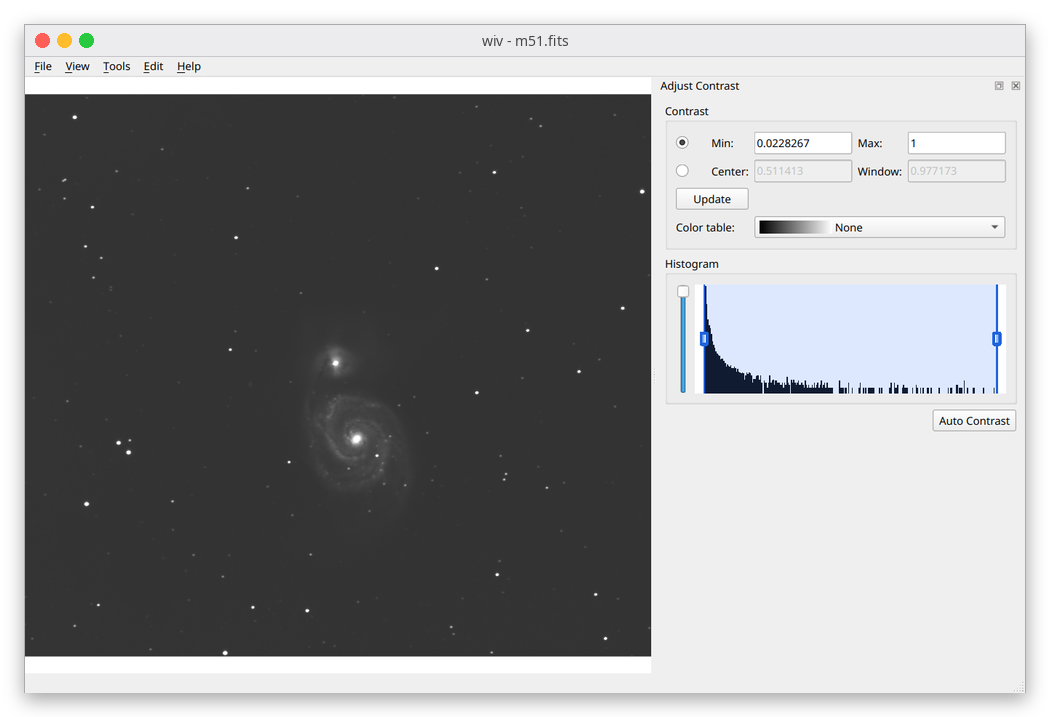
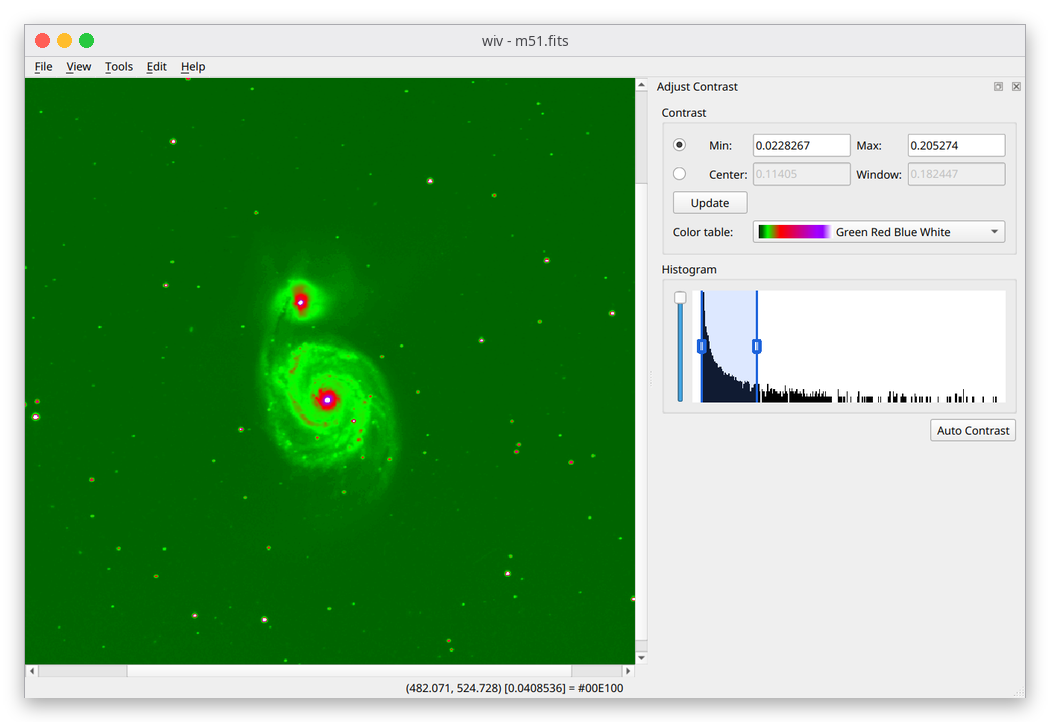
Rewrite README as a fast image viewer plus GPU vector/scientific viewer
- New README structure: hero strip, 10M-point zoom, who is it for,
  gallery, download, comparison table
- New hero images, gallery screenshots (thumbnails, EXIF, contrast with
  colour table, Voronoi with Mark Browser); drop the text-markup shot
- features.md: multi-value dashes and earcut polygons are supported
- Add tools/show-md.py to render Markdown locally

diff --git a/tools/show-md.py b/tools/show-md.py
@@ -1,0 +1,117 @@
+#!/usr/bin/env python3
+# SPDX-License-Identifier: GPL-3.0-only
+"""Render a Markdown file to HTML styled like GitHub and open it in the browser.
+
+Usage: tools/show-md.py [FILE.md] [--out OUT.html] [--no-open]
+
+Rendering is local (markdown-it-py, GFM-like: tables, strikethrough, raw HTML,
+auto-linked URLs, GitHub-style heading anchors). Relative images and links
+resolve against the Markdown file's directory.  Requires `pip install
+markdown-it-py` (or the distro package python3-markdown-it-py).
+"""
+import argparse
+import html
+import re
+import sys
+import tempfile
+import webbrowser
+from pathlib import Path
+
+try:
+    from markdown_it import MarkdownIt
+except ImportError:
+    sys.exit("show-md.py needs markdown-it-py (pip install markdown-it-py)")
+
+CSS = """
+:root{color-scheme:light dark;--fg:#1f2328;--bg:#fff;--muted:#59636e;--border:#d1d9e0;
+--code-bg:#f6f8fa;--link:#0969da;--th-bg:#f6f8fa}
+@media (prefers-color-scheme:dark){:root{--fg:#f0f6fc;--bg:#0d1117;--muted:#9198a1;
+--border:#3d444d;--code-bg:#151b23;--link:#4493f8;--th-bg:#151b23}}
+body{margin:0;background:var(--bg);color:var(--fg);
+font:16px/1.5 -apple-system,"Segoe UI",Noto Sans,Helvetica,Arial,sans-serif}
+.page{max-width:980px;margin:0 auto;padding:32px 16px}
+article{border:1px solid var(--border);border-radius:6px;padding:45px;word-wrap:break-word}
+@media (max-width:767px){article{padding:15px;border:0}}
+a{color:var(--link);text-decoration:none}a:hover{text-decoration:underline}
+h1,h2,h3,h4,h5,h6{margin:24px 0 16px;font-weight:600;line-height:1.25}
+h1{font-size:2em;padding-bottom:.3em;border-bottom:1px solid var(--border)}
+h2{font-size:1.5em;padding-bottom:.3em;border-bottom:1px solid var(--border)}
+h3{font-size:1.25em}h4{font-size:1em}
+article>:first-child{margin-top:0}
+p,ul,ol,table,pre,blockquote,details{margin:0 0 16px}
+ul,ol{padding-left:2em}li+li{margin-top:.25em}
+img{max-width:100%;box-sizing:content-box}
+code,tt{font:85% ui-monospace,SFMono-Regular,Menlo,Consolas,monospace;
+background:color-mix(in srgb,var(--muted) 20%,transparent);padding:.2em .4em;border-radius:6px}
+pre{background:var(--code-bg);padding:16px;overflow:auto;border-radius:6px;line-height:1.45}
+pre code{background:none;padding:0;font-size:85%}
+blockquote{margin-left:0;padding:0 1em;color:var(--muted);border-left:.25em solid var(--border)}
+hr{height:.25em;padding:0;margin:24px 0;background:var(--border);border:0}
+table{border-collapse:collapse;display:block;max-width:100%;overflow:auto;width:max-content}
+table table{display:table}
+th,td{padding:6px 13px;border:1px solid var(--border)}
+tr:nth-child(2n){background:var(--th-bg)}th{font-weight:600}
+table[align=center] tr,table[align=center] td{background:none}
+table[align=center] td{border:0}
+kbd{font:11px ui-monospace,monospace;padding:3px 5px;border:1px solid var(--border);
+border-radius:6px;background:var(--code-bg)}
+"""
+
+
+def slugify(text, seen):
+    # GitHub: lowercase, drop everything but word chars, spaces and hyphens,
+    # spaces -> hyphens; duplicates get -1, -2 ...
+    s = re.sub(r"[^\w\- ]", "", text.strip().lower()).replace(" ", "-")
+    n = seen.get(s, 0)
+    seen[s] = n + 1
+    return s if n == 0 else f"{s}-{n}"
+
+
+def add_heading_ids(state):
+    seen = {}
+    toks = state.tokens
+    for i, t in enumerate(toks):
+        if t.type == "heading_open":
+            inline = toks[i + 1]
+            text = "".join(c.content for c in inline.children
+                           if c.type in ("text", "code_inline"))
+            t.attrSet("id", slugify(text, seen))
+
+
+def render(md_text):
+    md = (MarkdownIt("commonmark", {"html": True, "linkify": False})
+          .enable(["table", "strikethrough"]))
+    md.core.ruler.push("heading_ids", add_heading_ids)
+    return md.render(md_text)
+
+
+def main():
+    ap = argparse.ArgumentParser(description=__doc__.split("\n")[0])
+    ap.add_argument("file", nargs="?", default="README.md")
+    ap.add_argument("--out", help="write HTML here instead of a temp file")
+    ap.add_argument("--no-open", action="store_true", help="don't launch a browser")
+    args = ap.parse_args()
+
+    src = Path(args.file).resolve()
+    body = render(src.read_text(encoding="utf-8"))
+    page = (f'<!doctype html><html><head><meta charset="utf-8">'
+            f'<meta name="viewport" content="width=device-width,initial-scale=1">'
+            f'<base href="{html.escape(src.parent.as_uri())}/">'
+            f'<title>{html.escape(src.name)}</title><style>{CSS}</style></head>'
+            f'<body><div class="page"><article>{body}</article></div></body></html>')
+
+    if args.out:
+        out = Path(args.out).resolve()
+    else:
+        fd = tempfile.NamedTemporaryFile("w", suffix=".html", prefix="show-md-",
+                                         delete=False, encoding="utf-8")
+        fd.close()
+        out = Path(fd.name)
+    out.write_text(page, encoding="utf-8")
+    print(out)
+    if not args.no_open:
+        webbrowser.open(out.as_uri())
+
+
+if __name__ == "__main__":
+    main()

diff --git a/tools/make_screenshots.py b/tools/make_screenshots.py
@@ -68,7 +68,6 @@ def shot_defs():
         ("balloon", "multi-line-balloon.giv", (1000, 600), ["BalloonTooltips"], hover),
         ("overview", "alpha-example.giv", (1000, 700), [], None),
         ("graph", "3x3-graph.giv", (800, 650), [], None),
-        ("text-markup", "text-markup.giv", (900, 650), [], zoom_out(2)),
         ("bezier", "bezier.giv", (900, 650), [], None),
         ("arrows", "arrows.giv", (900, 650), [], None),
         ("quiver", "quiver.giv", (900, 650), [], None),

diff --git a/README.md b/README.md
@@ -1,56 +1,125 @@
 # wiv
 
-**wiv (vviv) - The Vulkan Vector Image Viewer. A high-performance, scientific successor to giv.**
+**A fast image viewer that is also a GPU vector and scientific viewer.**
+Photos, camera RAW, FITS, DICOM and HDF5 data, SVG and millions of vector
+points, all rendered with Vulkan.
 
-<p align="center">
-  <a href="docs/images/wiv-screenshot.png"><img src="docs/images/wiv-screenshot.png" alt="wiv screenshot" width="400"></a>
-</p>
+<table align="center">
+  <tr>
+    <td align="center" width="33%"><img src="docs/images/hero/hero-science.png" width="250" alt="M51 as a FITS image with a rainbow color table"><br><b>Images</b><br>FITS, DICOM, RAW, HDR with live contrast and colour tables</td>
+    <td align="center" width="33%"><img src="docs/images/hero/hero-text.png" width="250" alt="SVG text on a path, with spacing and markup"><br><b>Vectors</b><br>SVG with shaped, multilingual text, crisp at any zoom</td>
+    <td align="center" width="33%"><img src="docs/images/hero/hero-vector.png" width="250" alt="Segmented seedling roots overlaid on a scan"><br><b>Data</b><br>Contours, marks and quivers on top of an image</td>
+  </tr>
+</table>
 
+Opens your photos, camera RAW, HDR, FITS, DICOM, HDF5 and
+NumPy data like a fast image viewer, and opens SVG and
+[giv](https://github.com/dov/giv)-format `.giv` files as true vector
+graphics: millions of points, text, dashes, arrows and animation. Linux and
+Windows.
 
-wiv opens your photos, camera RAW, HDR, FITS, DICOM, HDF5 and NumPy data like a
-fast image viewer, and it opens [giv](https://github.com/dov/giv)-format
-`.giv` files and SVGs as true vector graphics: millions of points, crisp at any
-zoom, with text, dashes, arrows and animation. It is a Vulkan/Qt 6 successor to
-giv, and reads existing `.giv` files unmodified.
+[Download](#download) · [Usage guide](docs/usage.md) · [Feature list](features.md) · [Build from source](#build)
 
-Full usage: **[docs/usage.md](docs/usage.md)**
+## Millions of points, still interactive
+
+<p align="center"><img src="docs/images/zoom-fern.webp" alt="Animation: zooming smoothly into a frond tip of a ten-million-point Barnsley fern" width="640"><br><em>Zooming 50&times; into a 10-million-point plot (<code>demo_generators/barnsley_10M.giv</code>, 154&nbsp;MB).</em></p>
+
+A 10M-point file parses in about 0.3 s, builds its scene in about 0.2 s and
+pans and zooms interactively. Marks, line segments and dashes are drawn with
+GPU instancing: one draw call for *all* marks and one for *all* line segments
+in a file.
 
 ## Why wiv?
 
 - **Images and vectors in one viewer.** Overlay contours, quiver plots,
-  measurement marks and labels on top of a raster image (`$image` in a `.giv`
-  file), or just view a folder of photos. Most image viewers can't draw
-  vectors; most plotting tools can't browse a folder of RAW files.
-- **Built for big data.** Marks, line segments and dashes are drawn with
-  GPU instancing: one draw call for *all* marks and one for *all* line
-  segments in a file. A 10-million-point, 208 MB `.giv` file parses in about
-  0.3 s, builds its scene in about 0.2 s and pans and zooms interactively.
+  measurement marks and labels on top of a raster image, or just view a folder
+  of photos. Most image viewers can't draw vectors; most plotting tools can't
+  browse a folder of RAW files.
 - **Real dynamic range, not 8-bit RGBA.** 8/16-bit grayscale, float FITS,
   DICOM, HDF5 and `.npy` data keep their raw samples. Contrast stretch (with a
   histogram) and pseudo-colour tables run on the GPU, so you window the actual
   data rather than a quantised copy.
+- **A real text engine.** HarfBuzz and FriBidi shaping: bidirectional and
+  multilingual text, ligatures, kerning, Pango-style markup, `<textPath>`. Text
+  is drawn as geometry with no glyph atlas, so it scales, rotates and animates
+  like any other shape.
+- **Fast, friendly browsing.** An Open dialog with cached thumbnails (drag a
+  thumbnail straight into another program), a thumbnail strip, and background
+  prefetch of neighbouring images so holding the arrow key stays responsive.
+  Open With and external-app shortcuts hand a file to your editor.
+- **Know your file.** The Image Info dock shows file properties, EXIF (camera,
+  exposure, GPS) and format headers. Auto Reload re-renders when the file
+  changes on disk, which is handy next to a script that writes plots.
+- **Animation.** GIF, APNG, animated WebP/JXL, AVIF sequences, animated SVG
+  (SMIL and CSS `@keyframes`) and `.giv` animation via `$frame`.
 - **Measurement tools.** Diagonal, horizontal and vertical caliper, Count
   Marks, pixel-size calibration so the caliper reads in real units, a pixel
   grid with sub-pixel coordinates.
 - **Live glyph scaling and export.** Ctrl+drag scales mark size, line width,
-  quiver length and opacity without rebuilding the scene (Glyph Appearance
-  panel); File > Export or `--export` renders the view to an image of any size.
-- **Every format through plugins.** Image decoders are runtime-loaded shared
-  libraries (`dlopen`/`LoadLibrary`), so optional formats (HEIF/AVIF, JPEG XL,
-  camera RAW, OpenEXR, HDF5) simply appear when their library is installed.
-- **Scriptable.** An optional JSON-RPC server (`--rpc-port`) speaks giv's wire
-  protocol, so existing giv client scripts can load files, push marks, read and
-  set the view, and wait for a click. giv's command-line options and remote
-  client mode (`--remote "load_file x.giv"`) are supported too.
+  quiver length and opacity without rebuilding the scene; File > Export or
+  `--export` renders the view to an image of any size.
+- **Scriptable.** `$svgmarks` puts an SVG symbol at every data point. An
+  optional JSON-RPC server (`--rpc-port`) speaks giv's wire protocol, so
+  client scripts can load files, push marks, read and set the view, and wait
+  for a click.
 - **Remembers your view.** Per-image contrast, colormap, pan/zoom and slice are
   kept in a SQLite database and restored when you reopen the file.
-- **Fast browsing.** Thumbnail strip, background prefetch of neighbouring
-  images with cancellable decodes and low-resolution previews, so holding the
-  arrow key stays responsive.
-- **Animation.** GIF, APNG, animated WebP/JXL, AVIF sequences, animated SVG
-  (SMIL and CSS `@keyframes`) and `.giv` animation via `$frame`.
-- **Linux and Windows.** Native Linux build; Windows via MSVC/vcpkg or a MinGW
-  cross build with an NSIS installer.
+- **Comfortable UI.** Light and dark themes, pinch-to-zoom on touchpads,
+  rebindable keys, every format through runtime-loaded plugins.
+
+## Who is it for?
+
+- **Astronomy, microscopy and medical imaging**: window FITS, DICOM, HDF5 and
+  NIfTI data with histogram contrast, pseudo-colour and calibrated measurement.
+  See [scientific tools](features.md#scientific--pixel-value-tools).
+- **Plots and annotations**: write a text `.giv` file from any language and
+  view millions of points, polygons, arrows and labels over an image.
+  See [the `.giv` format](docs/usage.md).
+- **Photographers**: fast browsing of JPEG, RAW, HEIC and AVIF with EXIF and
+  remembered zoom.
+- **Anyone with SVGs**: a viewer that renders text and animation correctly.
+- **Existing giv users**: wiv reads your `.giv` files unmodified and
+  understands giv's command line and remote protocol.
+
+## Gallery
+
+<table>
+  <tr>
+    <td width="33%"><a href="docs/images/image-info.png"><img src="docs/images/image-info.png" width="250" alt="Image Info and EXIF dock"></a><br>Image Info and EXIF</td>
+    <td width="33%"><a href="docs/images/thumbnails.png"><img src="docs/images/thumbnails.png" width="250" alt="Thumbnail strip"></a><br>Thumbnail strip</td>
+    <td width="33%"><a href="docs/images/fits-contrast.png"><img src="docs/images/fits-contrast.png" width="250" alt="Contrast panel with histogram and colour table"></a><br>Contrast, histogram and colour table</td>
+  </tr>
+  <tr>
+    <td width="33%"><a href="docs/images/pixel-grid.png"><img src="docs/images/pixel-grid.png" width="250" alt="Pixel grid with sub-pixel coordinates"></a><br>Pixel grid</td>
+    <td width="33%"><a href="docs/images/quiver.png"><img src="docs/images/quiver.png" width="250" alt="Quiver plot"></a><br>Quiver plot</td>
+    <td width="33%"><a href="docs/images/voronoi-mark-browser.png"><img src="docs/images/voronoi-mark-browser.png" width="250" alt="Voronoi diagram with the Mark Browser dock"></a><br>Voronoi diagram and Mark Browser</td>
+  </tr>
+</table>
+
+## Download
+
+Prebuilt packages are published on the
+[Releases page](https://github.com/dov/wiv/releases):
+
+- **Linux**: an AppImage. `chmod +x wiv-*.AppImage && ./wiv-*.AppImage photo.jpg`
+- **Windows**: the `InstallWiv-*.exe` installer.
+
+Or [build from source](#build).
+
+## How wiv compares
+
+| | wiv | giv | Gwenview | ImageJ / DS9 |
+| --- | --- | --- | --- | --- |
+| Photo browsing, RAW, HEIC/AVIF | yes | no | yes | limited |
+| FITS / DICOM / HDF5 with contrast and colour tables | yes | no | no | yes |
+| Vector overlays on an image | yes | yes | no | ROI/overlays |
+| Millions of vector points, GPU rendered | yes | limited | no | no |
+| SVG with shaped text and animation | yes | no | basic | no |
+| Image editing, plugins/macros | no | no | basic editing | yes |
+| Platforms | Linux, Windows | Linux, Windows | Linux, Windows | all |
+
+*Rough orientation only; check each tool's current documentation.*
+See [features.md](features.md) for the full wiv feature list.
 
 ## Supported formats
 
@@ -62,7 +131,17 @@ Full usage: **[docs/usage.md](docs/usage.md)**
 | Layered | OpenRaster `.ora`, Krita `.kra` (merged image) |
 | Vector | `.giv`, SVG (shapes, `<image>`, shaped multilingual `<text>`, `<textPath>`, CSS, animation) |
 
-See [features.md](features.md) for the complete feature list.
+## Quick start
+
+```sh
+wiv photo.jpg                       # view an image; next/previous with the arrow keys
+wiv examples/example.giv            # a vector file
+wiv --geometry 1024x768 *.png
+wiv --rpc-port 8080 file.giv        # enable remote control
+```
+
+Keys, mouse bindings, the `.giv` format and the remote protocol are described
+in **[docs/usage.md](docs/usage.md)**.
 
 ## Architecture
 
@@ -156,23 +235,18 @@ sudo ./install-mingw-deps.sh
 `MINGW_DEPS_PREFIX` overrides the dependency prefix (default
 `/usr/local/mingw64`).
 
-## Quick start
-
-```sh
-wiv photo.jpg                       # view an image; next/previous with the arrow keys
-wiv examples/example.giv            # a vector file
-wiv --geometry 1024x768 *.png
-wiv --rpc-port 8080 file.giv        # enable remote control
-```
-
-Keys, mouse bindings, the `.giv` format and the remote protocol are described
-in **[docs/usage.md](docs/usage.md)**.
-
 ## Benchmarking
 
 `tools/gen_test_giv.py` generates synthetic `.giv` files (point clouds, long
 polylines). `WIV_CONTINUOUS=1` renders every timer tick so the FPS figure is
 meaningful; `WIV_TIMING=1` also prints the per-stage cost of each frame.
+
+## Coming from giv?
+
+wiv is a Vulkan/Qt 6 successor to [giv](https://github.com/dov/giv). It reads
+existing `.giv` files unmodified, supports giv's command-line options and
+remote client mode (`--remote "load_file x.giv"`), and its JSON-RPC server
+speaks giv's wire protocol.
 
 ## License
 

diff --git a/docs/usage.md b/docs/usage.md
@@ -97,8 +97,6 @@ thumbnails and background prefetching keep browsing fast.
 
 <p align="center"><img src="images/overview.png" alt="alpha-example.giv: semi-transparent marks over an image, with the thumbnail strip off" width="640"><br><em>alpha-example.giv: semi-transparent marks over an image, with the thumbnail strip off</em></p>
 
-<p align="center"><img src="images/thumbnails.png" alt="The same window with the thumbnail strip (<kbd>t</kbd>)" width="640"><br><em>The same window with the thumbnail strip (<kbd>t</kbd>)</em></p>
-
 ## 3. The giv file format
 
 A `.giv` file is plain text, one command per line. wiv reads the format of the
@@ -301,10 +299,6 @@ the middle, `1 2 3` at the bottom. `T7 100 100 hi` puts the top-left corner of
 22:
 ... (51 more lines)
 ```
-
-**Rendering:**
-
-<p align="center"><img src="images/text-markup.png" alt="Pango markup and drop-shadow labels" width="560"><br><em>Pango markup and drop-shadow labels</em></p>
 
 Text is shaped with HarfBuzz and FriBidi, so ligatures, kerning, right-to-left
 scripts and per-character font fallback work, and it is drawn as vector
@@ -613,7 +607,7 @@ Toggles such as Auto Contrast and Pixel Grid are saved and restored at startup.
 
 <p align="center"><img src="images/mark-browser.png" alt="The Mark Browser (<kbd>o</kbd>) lists the datasets of colors.giv; the checkboxes show and hide them" width="560"><br><em>The Mark Browser (<kbd>o</kbd>) lists the datasets of colors.giv; the checkboxes show and hide them</em></p>
 
-<p align="center"><img src="images/image-info.png" alt="The Image Info dock (<kbd>i</kbd>) for examples/mri-orange.fits" width="560"><br><em>The Image Info dock (<kbd>i</kbd>) for examples/mri-orange.fits</em></p>
+<p align="center"><img src="images/image-info.png" alt="The Image Info dock (<kbd>i</kbd>) with the EXIF metadata of a JPEG photo" width="560"><br><em>The Image Info dock (<kbd>i</kbd>) with the EXIF metadata of a JPEG photo</em></p>
 
 ## 5. Scientific tools
 
@@ -629,7 +623,7 @@ Toggles such as Auto Contrast and Pixel Grid are saved and restored at startup.
 Volumes (FITS cubes, multi-frame DICOM, 3D `.npy`, HDF5 datasets) are stepped
 with <kbd>PgUp</kbd>/<kbd>PgDn</kbd>; the status bar shows `Slice N/M` and the histogram is per slice.
 
-<p align="center"><img src="images/fits-contrast.png" alt="Adjust Contrast (<kbd>c</kbd>) on examples/m51.fits: histogram with draggable min/max handles" width="560"><br><em>Adjust Contrast (<kbd>c</kbd>) on examples/m51.fits: histogram with draggable min/max handles</em></p>
+<p align="center"><img src="images/fits-contrast.png" alt="Adjust Contrast (<kbd>c</kbd>) on examples/m51.fits: histogram with draggable min/max handles and the colour table selector" width="560"><br><em>Adjust Contrast (<kbd>c</kbd>) on examples/m51.fits: histogram with draggable min/max handles and the colour table selector</em></p>
 
 <p align="center"><img src="images/fits-colormap.png" alt="Color Table (<kbd>p</kbd>) with the Rainbow table; the colormap bar shows the min..max mapping" width="560"><br><em>Color Table (<kbd>p</kbd>) with the Rainbow table; the colormap bar shows the min..max mapping</em></p>
 

diff --git a/features.md b/features.md
@@ -233,8 +233,8 @@ Stored in `state.db` (SQLite, WAL mode) next to `wiv.ini` (e.g.
 - Parsed but ignored: `$marks_file $low_contrast $hflip/$vflip`
   (and `no*`), `$pixelsize`.
 - Marks: circle, filled circle, square, filled square (+ others per parser).
-- Lines: width, dash patterns (first on/off pair only), caps, arrows.
-- Polygons (fan-triangulated; concave polygons may fill wrongly), holes.
+- Lines: width, dash patterns (multi-value patterns), caps, arrows.
+- Polygons (earcut-triangulated, so concave polygons fill correctly), holes.
 - Quivers with heads and scale.
 - Text with numeric-keypad alignment, rotation, size, font via fontconfig (HarfBuzz/FriBidi outlines).
 - Colours: X11 names, `name/alpha` suffix syntax, hex.
@@ -292,5 +292,4 @@ proven; re-check before relying on an item.
 - No video playback.
 - No EXIF editing; EXIF only for JPEG/TIFF/PNG/WebP.
 - No remote/network file loading beyond local paths.
-- No concave-polygon earcut, no multi-value dash patterns in `.giv`.
 - No bundled font; text depends on fontconfig (Linux) / system fonts.
